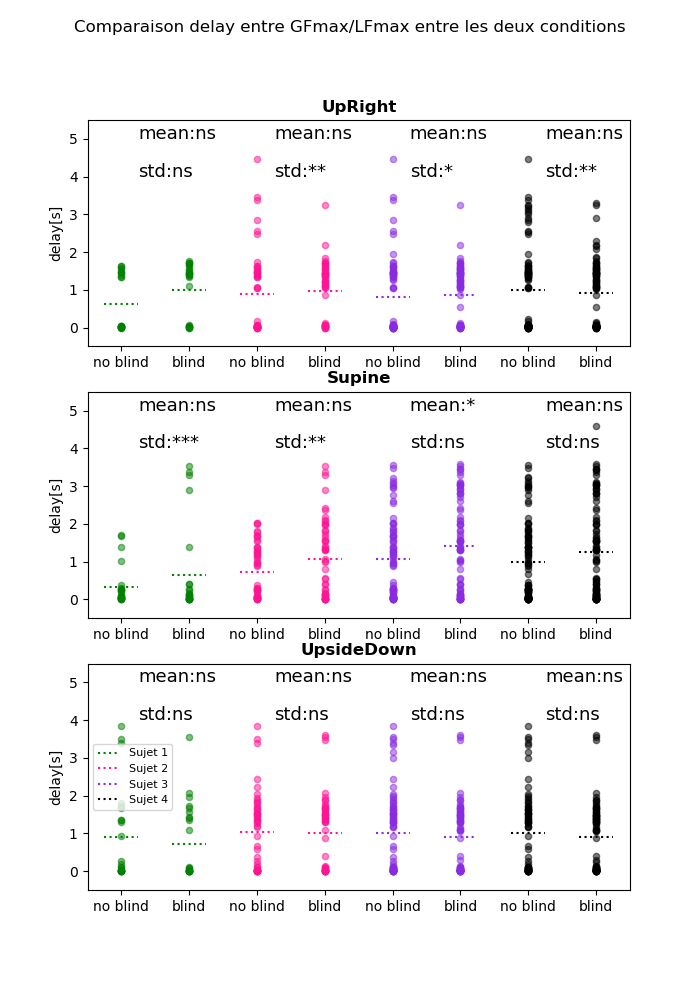
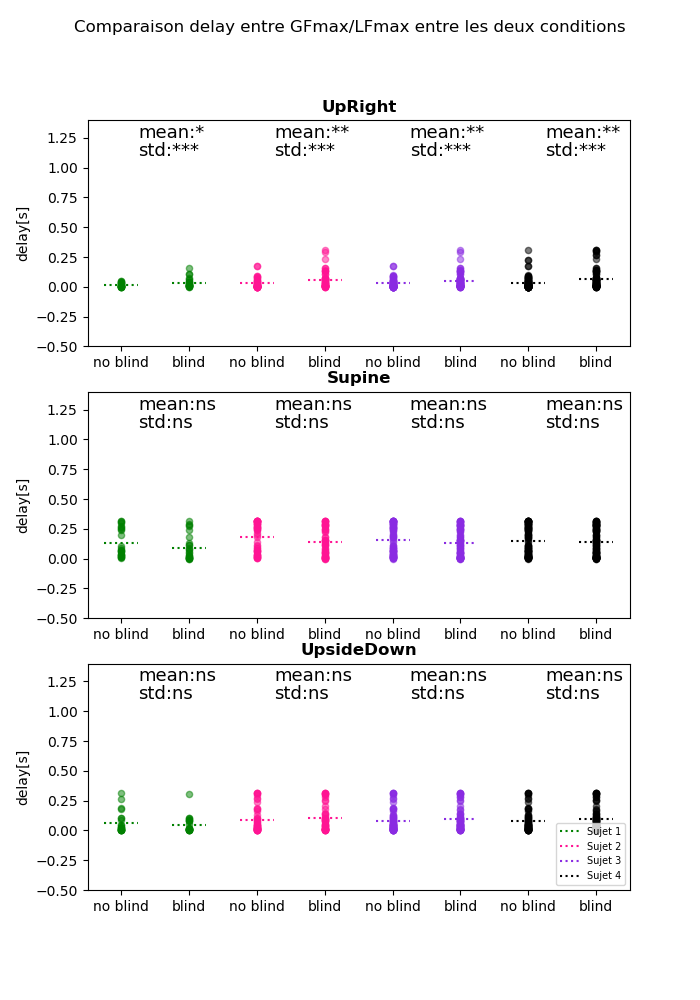
ad delay good

diff --git a/codepython/graphepourFeli/allsubjectsjustpvaluebindnobind.py b/codepython/graphepourFeli/allsubjectsjustpvaluebindnobind.py
@@ -66,11 +66,10 @@ GF = glm_df.loc[:, 'GF'].to_numpy()
 meanlucile = np.nanmean(GF[baseline])
 ##
 
-fig, (ax1, ax2, ax3) = plt.subplots(nrows=3, ncols=1, figsize=(7, 10))
-tup = (ax1, ax2, ax3)
+
 file1 = open("statsBNB_delatz", "w")
-for p, ax in zip(positions, tup):
-    file1.write("########################%s######################\n" % positionsdico[p])
+for p in positions:
+   
     a = -3
     openarray1 = []
     openarray2 = []
@@ -149,68 +148,30 @@ for p, ax in zip(positions, tup):
             cycle_ends = ipk[1:] - 1
 
             GFmax = []
+            indexGF=[]
+            LFmax=[]
+            indexLF=[]
             for i in range(len(cycle_starts)):
                 id = np.where((time > time1[cycle_starts[i]]) & (time < time1[cycle_ends[i]]))
                 idbis = np.nanargmax(GF[id])
+                indexGF.append(time[id][idbis])
+                GFmax.append(GF[id][idbis])
                 # print(len(time[id]))
-                if idbis > 250 and idbis + 250 < len(time[id]):
-                    idarray = np.arange(idbis - 250, idbis + 250)
-                elif idbis > 250 and idbis + 250 > len(time[id]):
-                    idarray = np.arange(idbis - 250, len(time[id]))
+                if idbis > 500 and idbis + 500 < len(time[id]):
+                    idarray = np.arange(idbis - 500, idbis + 500)
+                elif idbis > 500 and idbis + 500 > len(time[id]):
+                    idarray = np.arange(idbis - 500, len(time[id]))
                 else:
                     idarray = np.arange(0, idbis + 250)
                 idbis1 = np.nanargmax(LF[id][idarray])
-                if n == 2 or n == 3:
-                    openarray1.append(np.abs(time[id][idbis] - time[id][idarray][idbis1]))
-                    # print(time[id][idbis])
-                    # print(time[id][idarray])
-                    # print(time[id][idarray][np.nanargmax(LF[id][idarray])])
-                if n == 5 or n == 4:
-                    openarray2.append(np.abs(time[id][idbis] - time[id][idarray][idbis1]))
+                indexLF.append(time[id][idarray][idbis1])
+                LFmax.append(LF[id][idarray][idbis1])
+            plt.plot(time,GF,label='GF')
+            plt.plot(time,LF,label='LF')
+            plt.scatter(indexGF,GFmax,label='GF max')
+            plt.scatter(indexLF,LFmax,label='LF max')
+            plt.legend()
+            plt.title("%s en position %s essais %d"%(sujet[name],positionsdico[p],n))
+            plt.show()
+            
 
-        X1 = sm2.DescrStatsW(openarray1)
-        X2 = sm2.DescrStatsW(openarray2)
-        Ttest = sm2.CompareMeans(X1, X2)
-        file1.write(Ttest.summary(usevar='pooled').as_text() + "\n")
-        file1.write("les deux moyennes sont: %f et %f\n" % (np.nanmean(openarray1), np.nanmean(openarray2)))
-        t2, p2 = sc.ttest_ind(openarray1, openarray2)
-        Txbis, pvalbis = sc.bartlett(openarray1, openarray2)
-        box = [np.nanmean(openarray1), np.nanmean(openarray2)]
-        box1 = [np.nanstd(openarray1), np.nanstd(openarray2)]
-        file1.write("p_value pour la variance %f \n" % pvalbis)
-        file1.write("les deux variances sont %f et %f\n" % (np.nanstd(openarray1), np.nanstd(openarray2)))
-        index = indexsubject[name]
-        indexgraph1 = np.linspace(index[0] - 0.25, index[0] + 0.25, 50)
-        plotarray1 = np.zeros(50) + box[0]
-        indexgraph2 = np.linspace(index[1] - 0.25, index[1] + 0.25, 50)
-        plotarray2 = np.zeros(50) + box[1]
-        indexscatter1 = np.zeros(len(openarray1)) + index[0]
-        indexscatter2 = np.zeros(len(openarray2)) + index[1]
-        if ax == ax3:
-            ax.plot(indexgraph1, plotarray1, linestyle='dotted', color=sujetcolor[name],
-                    label=sujet[name])
-            ax.scatter(indexscatter1, openarray1, color=sujetcolor[name], alpha=0.5, s=20)
-            ax.plot(indexgraph2, plotarray2, linestyle='dotted', color=sujetcolor[name])
-            ax.scatter(indexscatter2, openarray2, color=sujetcolor[name], alpha=0.5, s=20)
-            ax.text(index[0] + 0.25, 1.25, 'mean:%s' % transformpvalue(p2), fontsize=13)
-            ax.text(index[0] + 0.25, 1.10, 'std:%s' % transformpvalue(pvalbis), fontsize=13)
-        else:
-            ax.plot(indexgraph1, plotarray1, linestyle='dotted', color=sujetcolor[name])
-            ax.scatter(indexscatter1, openarray1, color=sujetcolor[name], alpha=0.5, s=20)
-            ax.plot(indexgraph2, plotarray2, linestyle='dotted', color=sujetcolor[name])
-            ax.scatter(indexscatter2, openarray2, color=sujetcolor[name], alpha=0.5, s=20)
-            ax.text(index[0] + 0.25, 1.25, 'mean:%s' % transformpvalue(p2), fontsize=13)
-            ax.text(index[0] + 0.25, 1.10, 'std:%s' % transformpvalue(pvalbis), fontsize=13)
-    ax.set_ylim(-0.5, 1.4)
-    ax.set_xlim(0.85, 2.15)
-    ax.set_xticks([1, 2, 3, 4, 5, 6, 7, 8])
-    ax.set_xlim(0.5, 8.5)
-    ax.set_xticklabels(["no blind", 'blind', "no blind", 'blind', "no blind", 'blind', "no blind", 'blind'])
-    ax.set_title("%s" % positionsdico[p], fontweight='bold')
-    ax.set_ylabel("delay[s]")
-    if p == 'UD':
-        ax.legend(loc="lower right", prop={'size': 7})
-        # ax.set_xlabel('blocs(#)')
-fig.suptitle("Comparaison delay entre GFmax/LFmax entre les deux conditions")
-plt.savefig("errorbar_delay_GF_LF_for_allpvaluebindnobind.png")
-file1.close()
